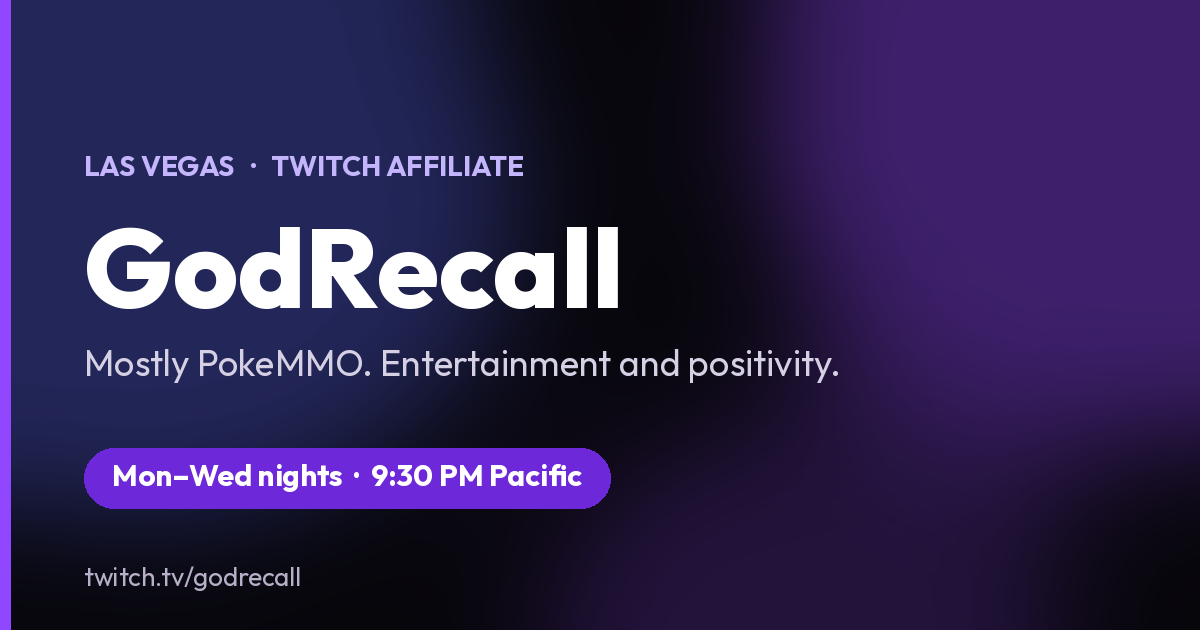
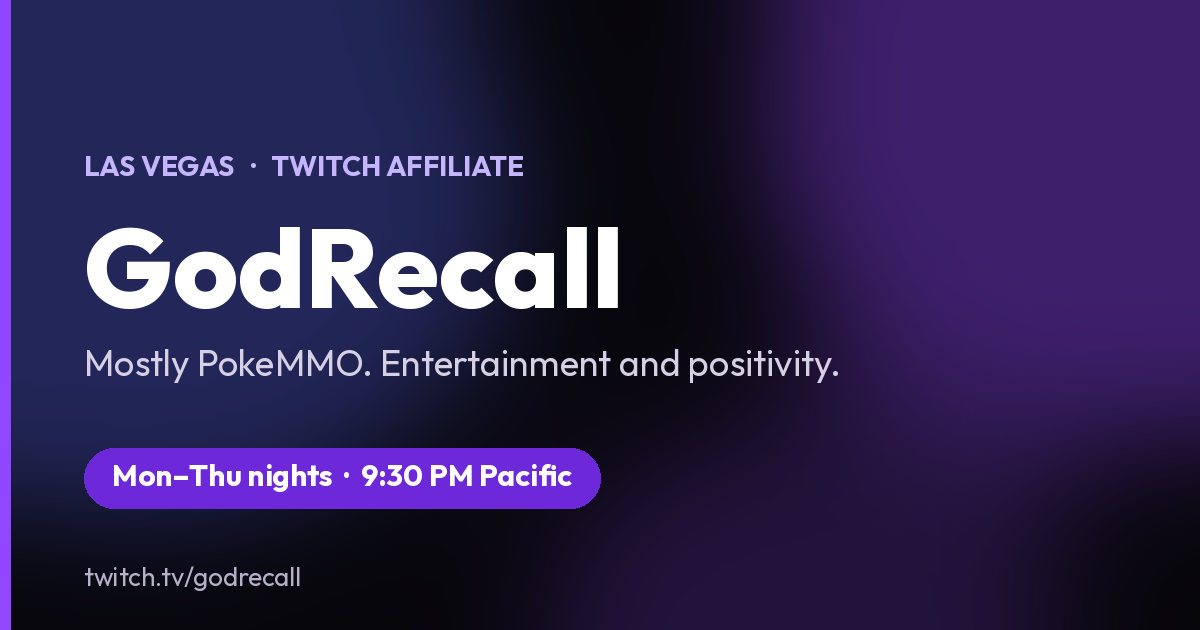
fix: update stream schedule to Monday through Thursday (#2)
The weekly schedule is now Monday through Thursday nights around 9:30 PM Pacific.

Changed region(s): [[0.1542, 0.7238, 0.5242, 0.8143]]

diff --git a/index.html b/index.html
@@ -4,14 +4,14 @@
   <meta charset="utf-8">
   <meta name="viewport" content="width=device-width, initial-scale=1, viewport-fit=cover">
   <title>GodRecall · PokeMMO on Twitch</title>
-  <meta name="description" content="Las Vegas Twitch Affiliate. Mostly PokeMMO, entertainment, and positivity. Live Monday–Wednesday nights around 9:30 PM Pacific.">
+  <meta name="description" content="Las Vegas Twitch Affiliate. Mostly PokeMMO, entertainment, and positivity. Live Monday through Thursday nights around 9:30 PM Pacific.">
   <meta name="theme-color" content="#07060b">
   <meta name="color-scheme" content="dark">
   <link rel="canonical" href="https://zachkleinschmidt.github.io/">
   <link rel="icon" href="/favicon.svg" type="image/svg+xml">
   <link rel="apple-touch-icon" href="/apple-touch-icon.png">
   <meta property="og:title" content="GodRecall">
-  <meta property="og:description" content="Las Vegas Twitch Affiliate. Mostly PokeMMO, entertainment, and positivity. Live Monday–Wednesday nights around 9:30 PM Pacific.">
+  <meta property="og:description" content="Las Vegas Twitch Affiliate. Mostly PokeMMO, entertainment, and positivity. Live Monday through Thursday nights around 9:30 PM Pacific.">
   <meta property="og:type" content="website">
   <meta property="og:url" content="https://zachkleinschmidt.github.io/">
   <meta property="og:image" content="https://zachkleinschmidt.github.io/og-image.png">
@@ -22,7 +22,7 @@
   <meta name="twitter:card" content="summary_large_image">
   <meta name="twitter:site" content="@godrecall">
   <meta name="twitter:title" content="GodRecall">
-  <meta name="twitter:description" content="Las Vegas Twitch Affiliate. Mostly PokeMMO, entertainment, and positivity. Live Monday–Wednesday nights around 9:30 PM Pacific.">
+  <meta name="twitter:description" content="Las Vegas Twitch Affiliate. Mostly PokeMMO, entertainment, and positivity. Live Monday through Thursday nights around 9:30 PM Pacific.">
   <meta name="twitter:image" content="https://zachkleinschmidt.github.io/og-image.png">
   <meta name="twitter:image:alt" content="GodRecall, a Las Vegas Twitch Affiliate who mostly streams PokeMMO.">
   <link rel="stylesheet" href="/styles.css">
@@ -76,7 +76,7 @@
       </div>
       <aside class="schedule" aria-labelledby="schedule-heading">
         <h2 id="schedule-heading" class="section-label">Schedule</h2>
-        <p>Live Monday–Wednesday nights around 9:30 PM Pacific. Some Thursdays.</p>
+        <p>Live Monday through Thursday nights around 9:30 PM Pacific.</p>
       </aside>
     </section>
 
